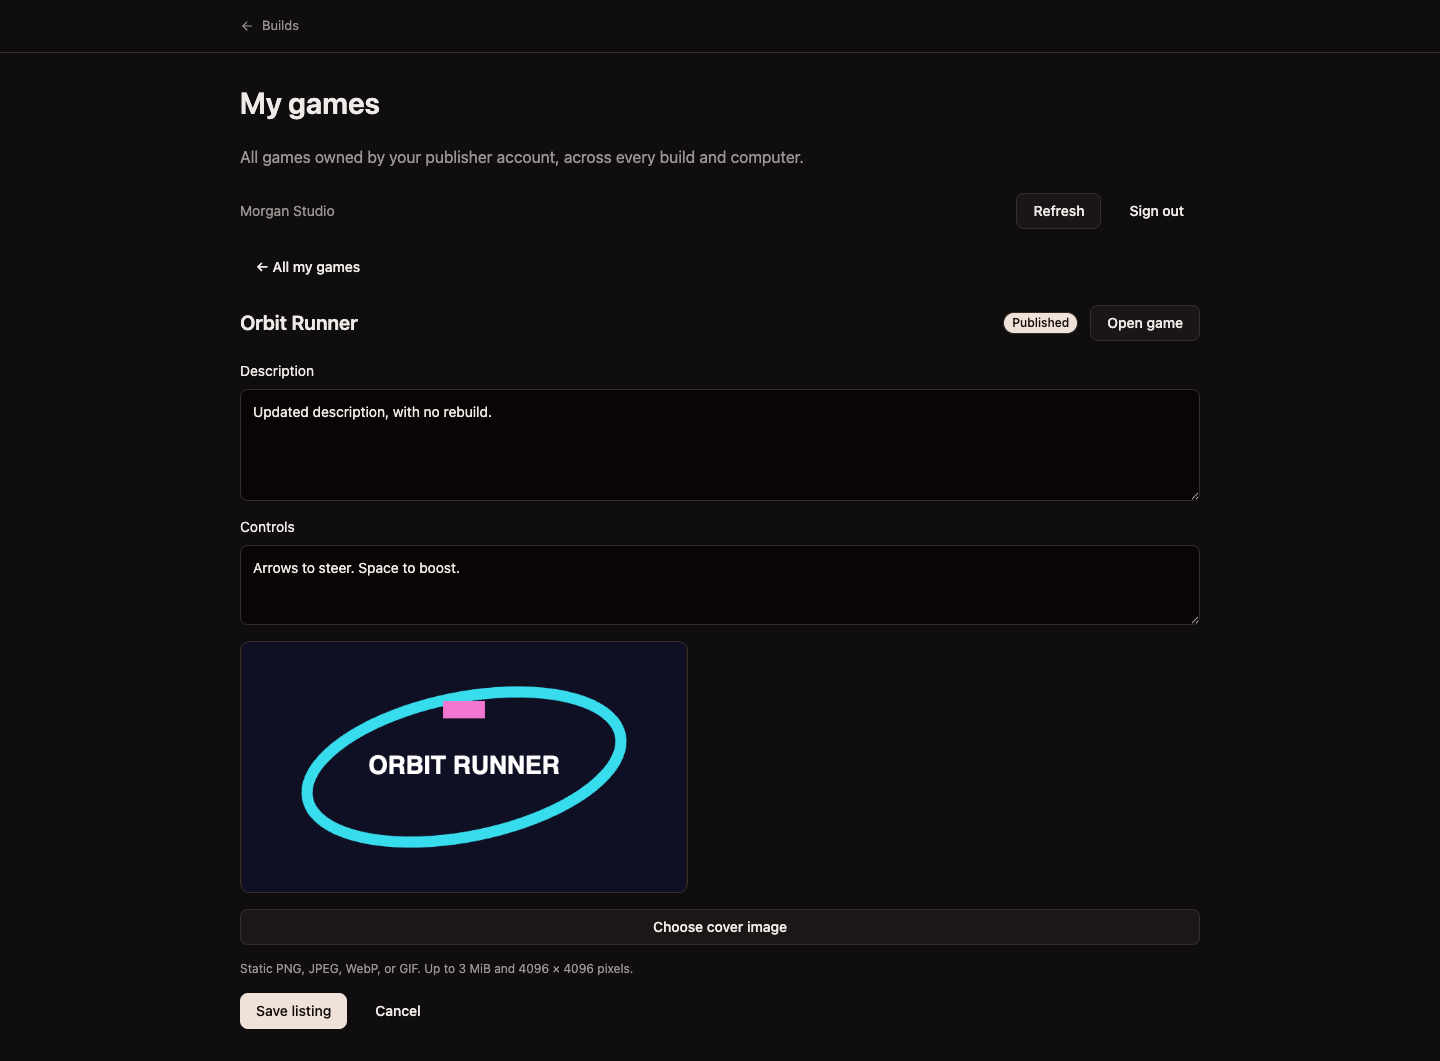
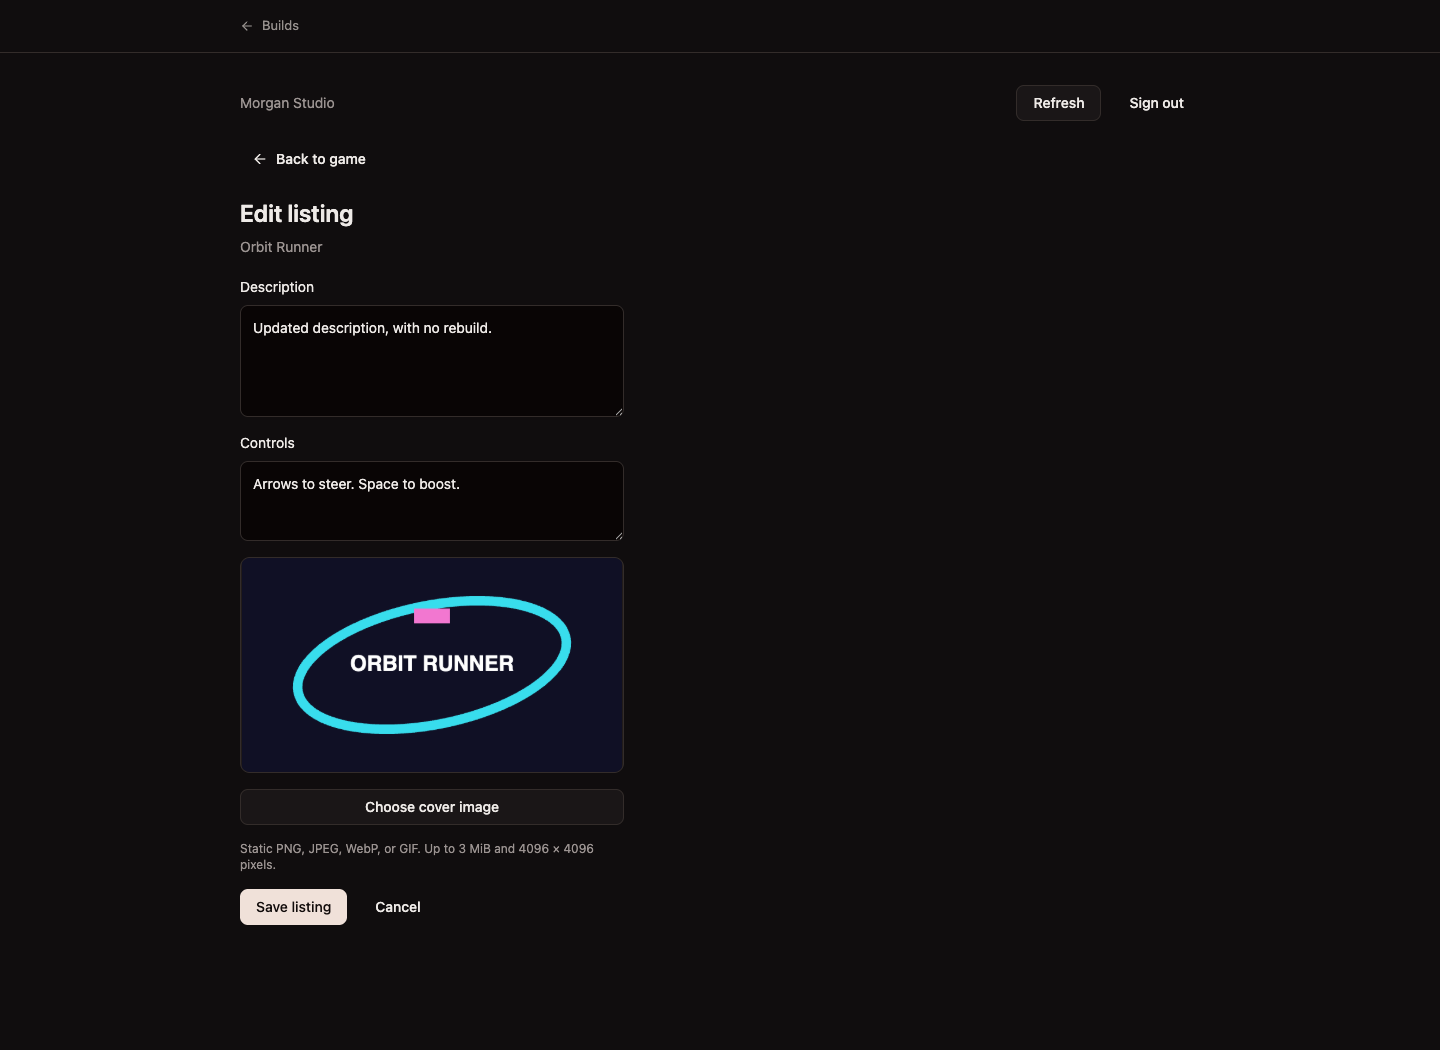
docs: show card hover and separate game detail and edit screens

diff --git a/docs/review-media/pr-95/README.md b/docs/review-media/pr-95/README.md
@@ -1,9 +1,9 @@
 # Publishing UI review captures
 
-The five account-flow screenshots were refreshed from the built desktop React
-renderer at app-code commit `d30969e3b37051506cdc08f37ace418c1d4269de`. The eight
-unchanged game-management and publishing captures are from app-code commit
-`40b23a3936a22fcba5c99de4dbd548b5302fddfb`. All captures are 1440 × 1050. All
+The five account-flow screenshots are from the built desktop React renderer at
+app-code commit `d30969e3b37051506cdc08f37ace418c1d4269de`. The ten grid, detail,
+editor, and publishing captures were refreshed at app-code commit `b87bb0cf391ea843fbbc4e8a33232f8764036a7d`.
+Captures use a 1440 × 1050 viewport (full-page images extend to fit content). All
 accounts, email codes, games, build history, and cover art are sample fixtures;
 IPC/service responses are mocked. These images show actual app components,
 not live account operations or evidence of hosted email delivery.
@@ -14,10 +14,12 @@ not live account operations or evidence of hosted email delivery.
 - [Eight-slot OTP verification with resend countdown](publisher-otp.png)
 - [Invalid-code feedback with retry](auth-invalid-code.png)
 - [Account-wide library showing published and unpublished games](my-games.png)
-- [Published game management and retained releases](game-manager.png)
-- [Editing description, controls, and the cover image](edit-listing.png)
+- [Whole-card hover including card padding](my-games-hover.png)
+- [Full-width game detail with cover, description, controls, and releases](game-manager.png)
+- [Separate compact editor for description, controls, and cover](edit-listing.png)
 - [Build overview showing Published and Manage game](build-published.png)
 - [Exact live round showing Published and Manage game](round-published.png)
 - [Another round offers Publish round 1 while round 2 is live](round-other.png)
 - [Manage game opens the release-management drawer directly](publishing-manager.png)
+- [Compact listing editor within the publishing drawer](publishing-edit.png)
 - [Publishing another saved round opens its preview form](publish-round.png)
